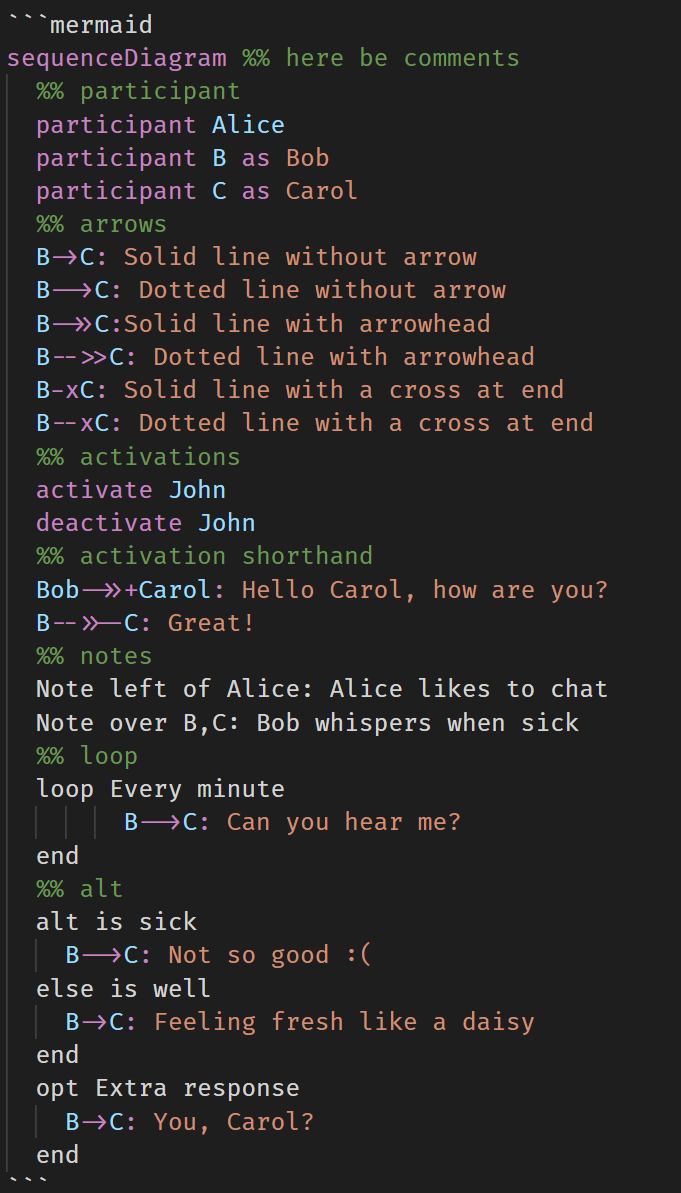
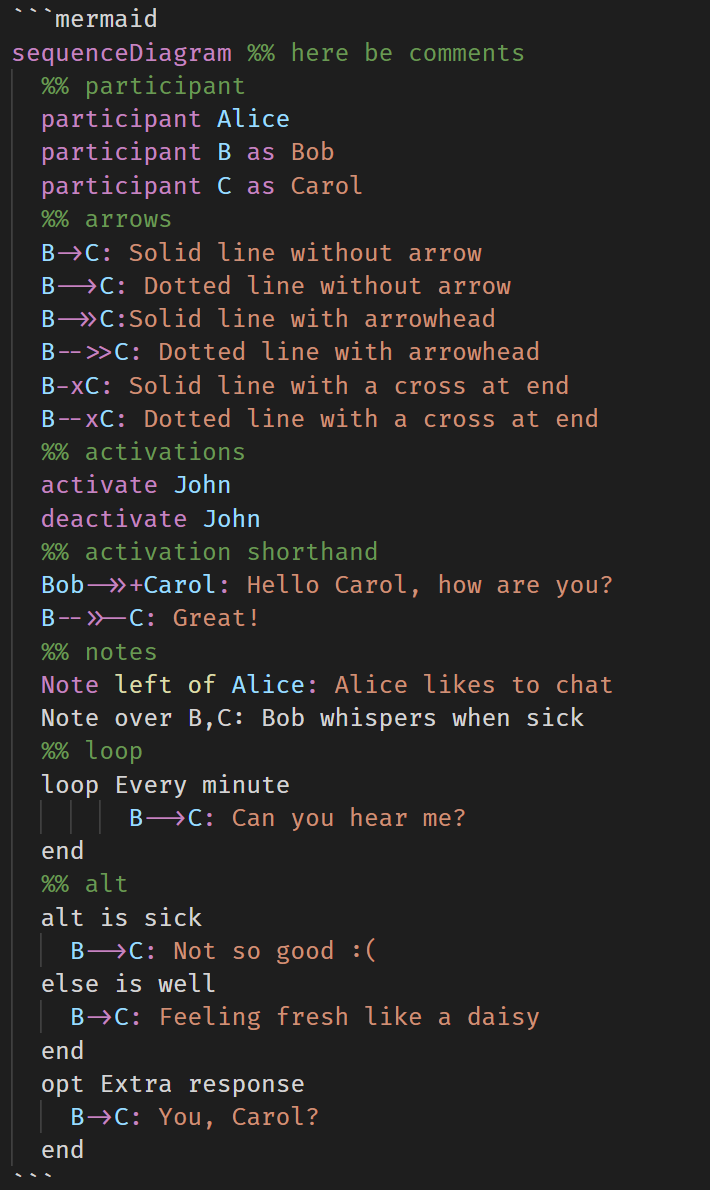
docs: update sequence screenshot with notes

Changed region(s): [[0.0, 0.0, 0.8943, 0.995], [0.6167, 0.4664, 0.8943, 0.4975], [0.3392, 0.7773, 0.5551, 0.8084]]

diff --git a/README.md b/README.md
@@ -99,7 +99,7 @@ sequenceDiagram %% diagram
 - [x] 6 arrow types
 - [x] (de)activate Actor
 - [x] activate/deactivate shorthand (+/-)
-- [ ] Note Action Actor
+- [x] Note Action Actor
 - [ ] Multi-actor notes
 - [ ] loop
 - [ ] alt
